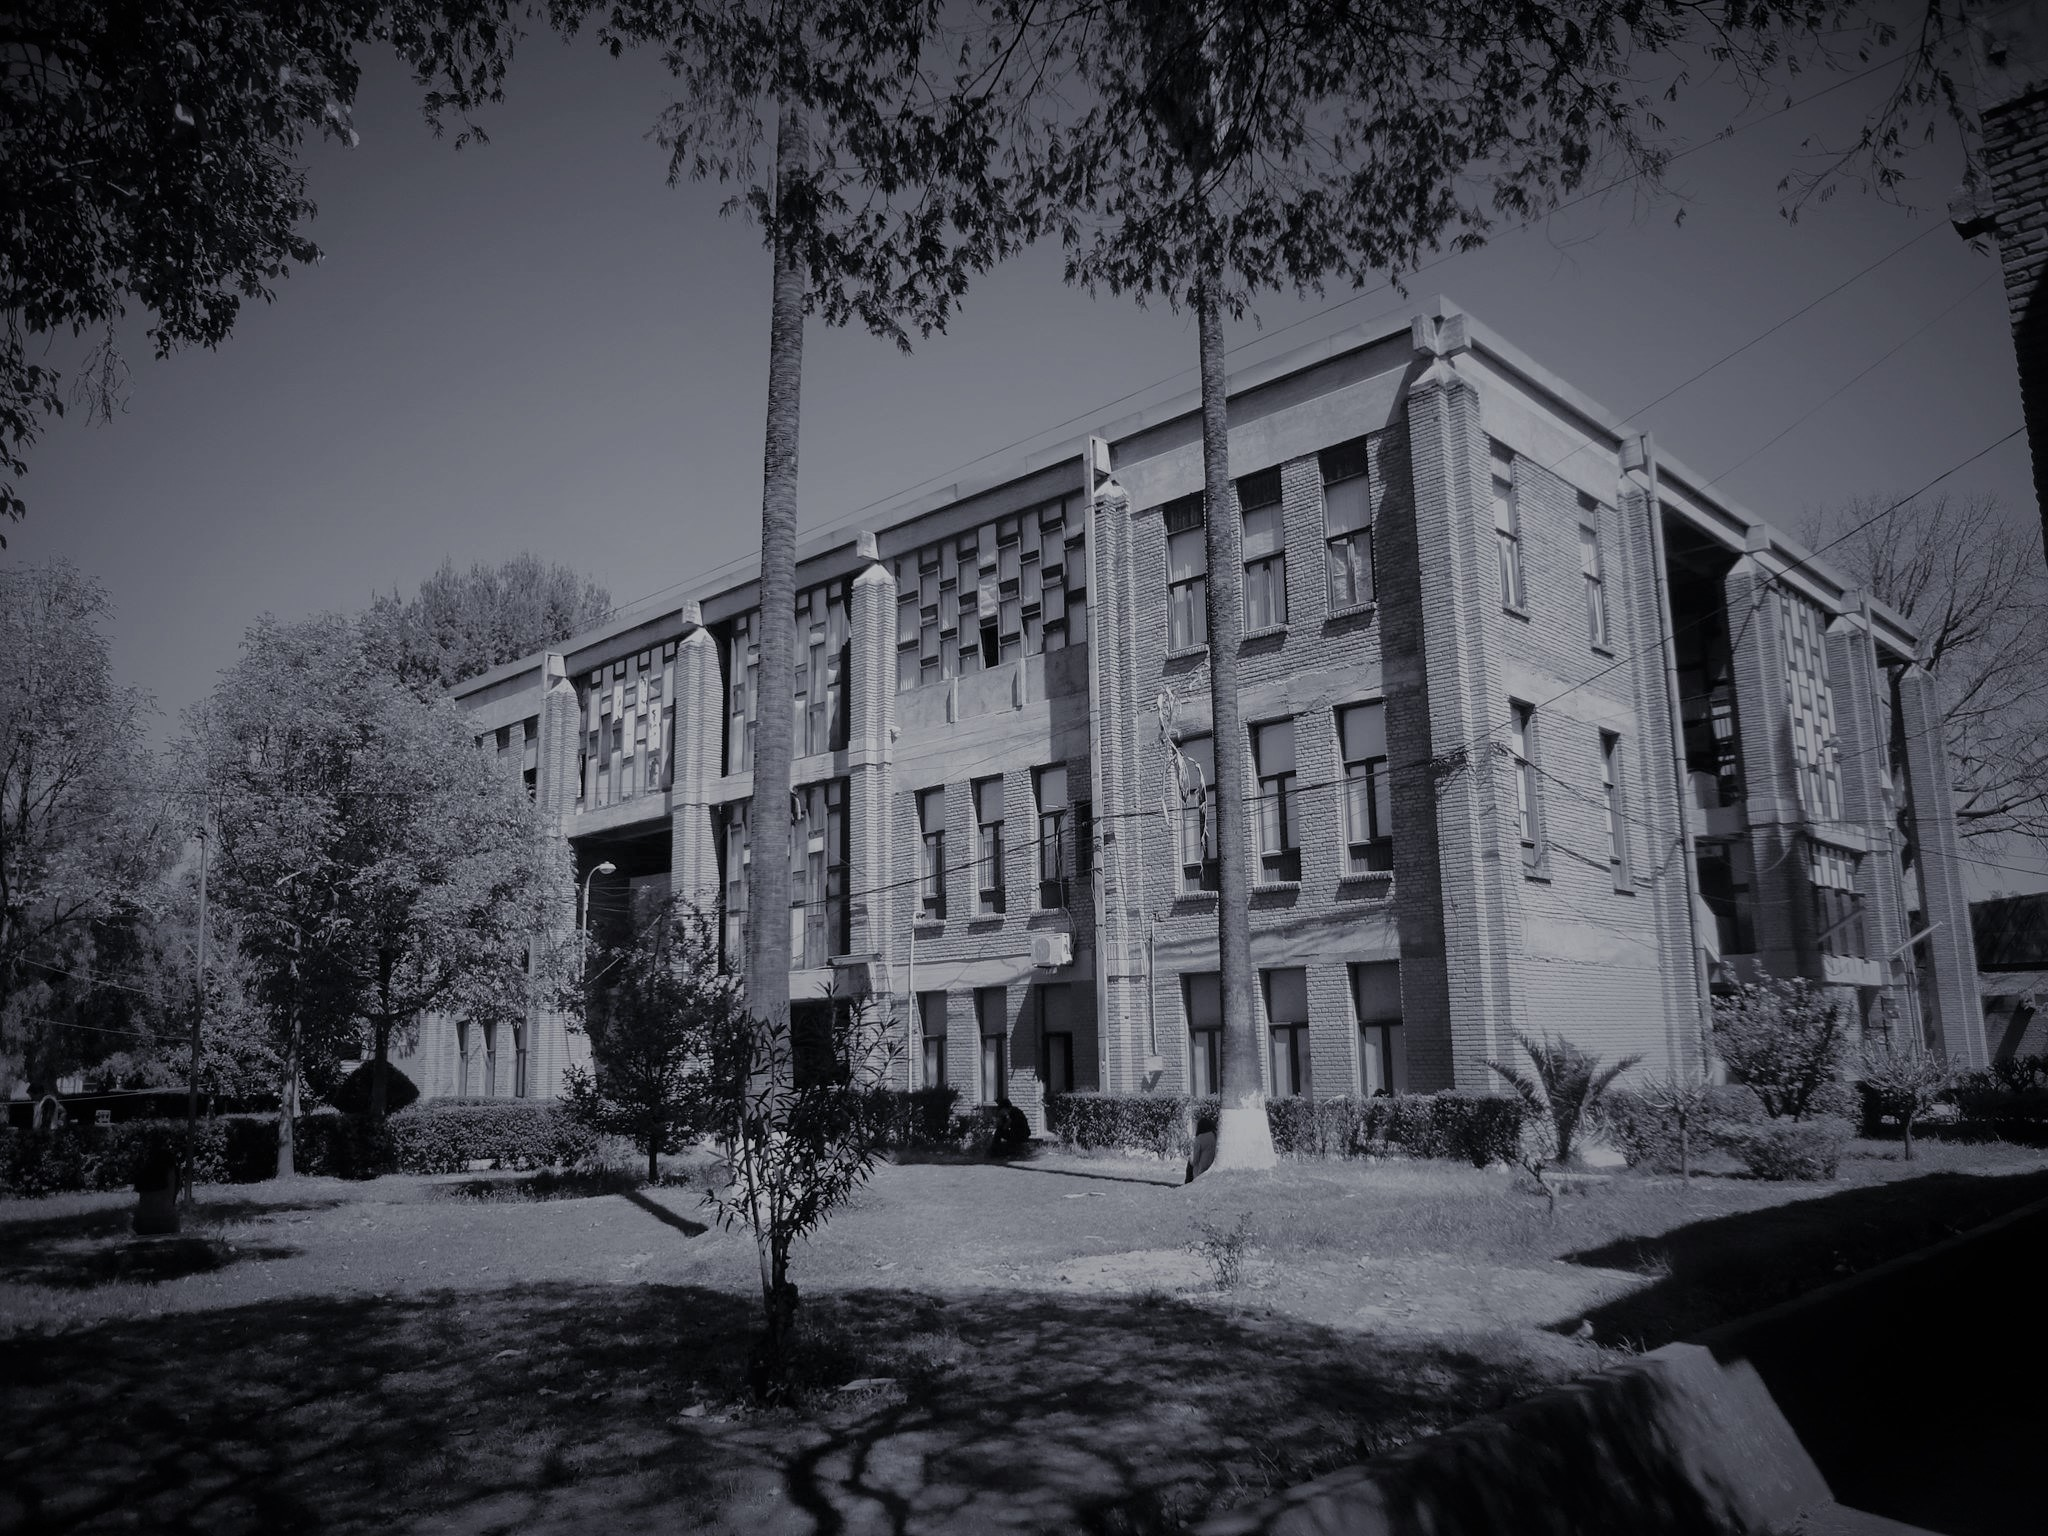
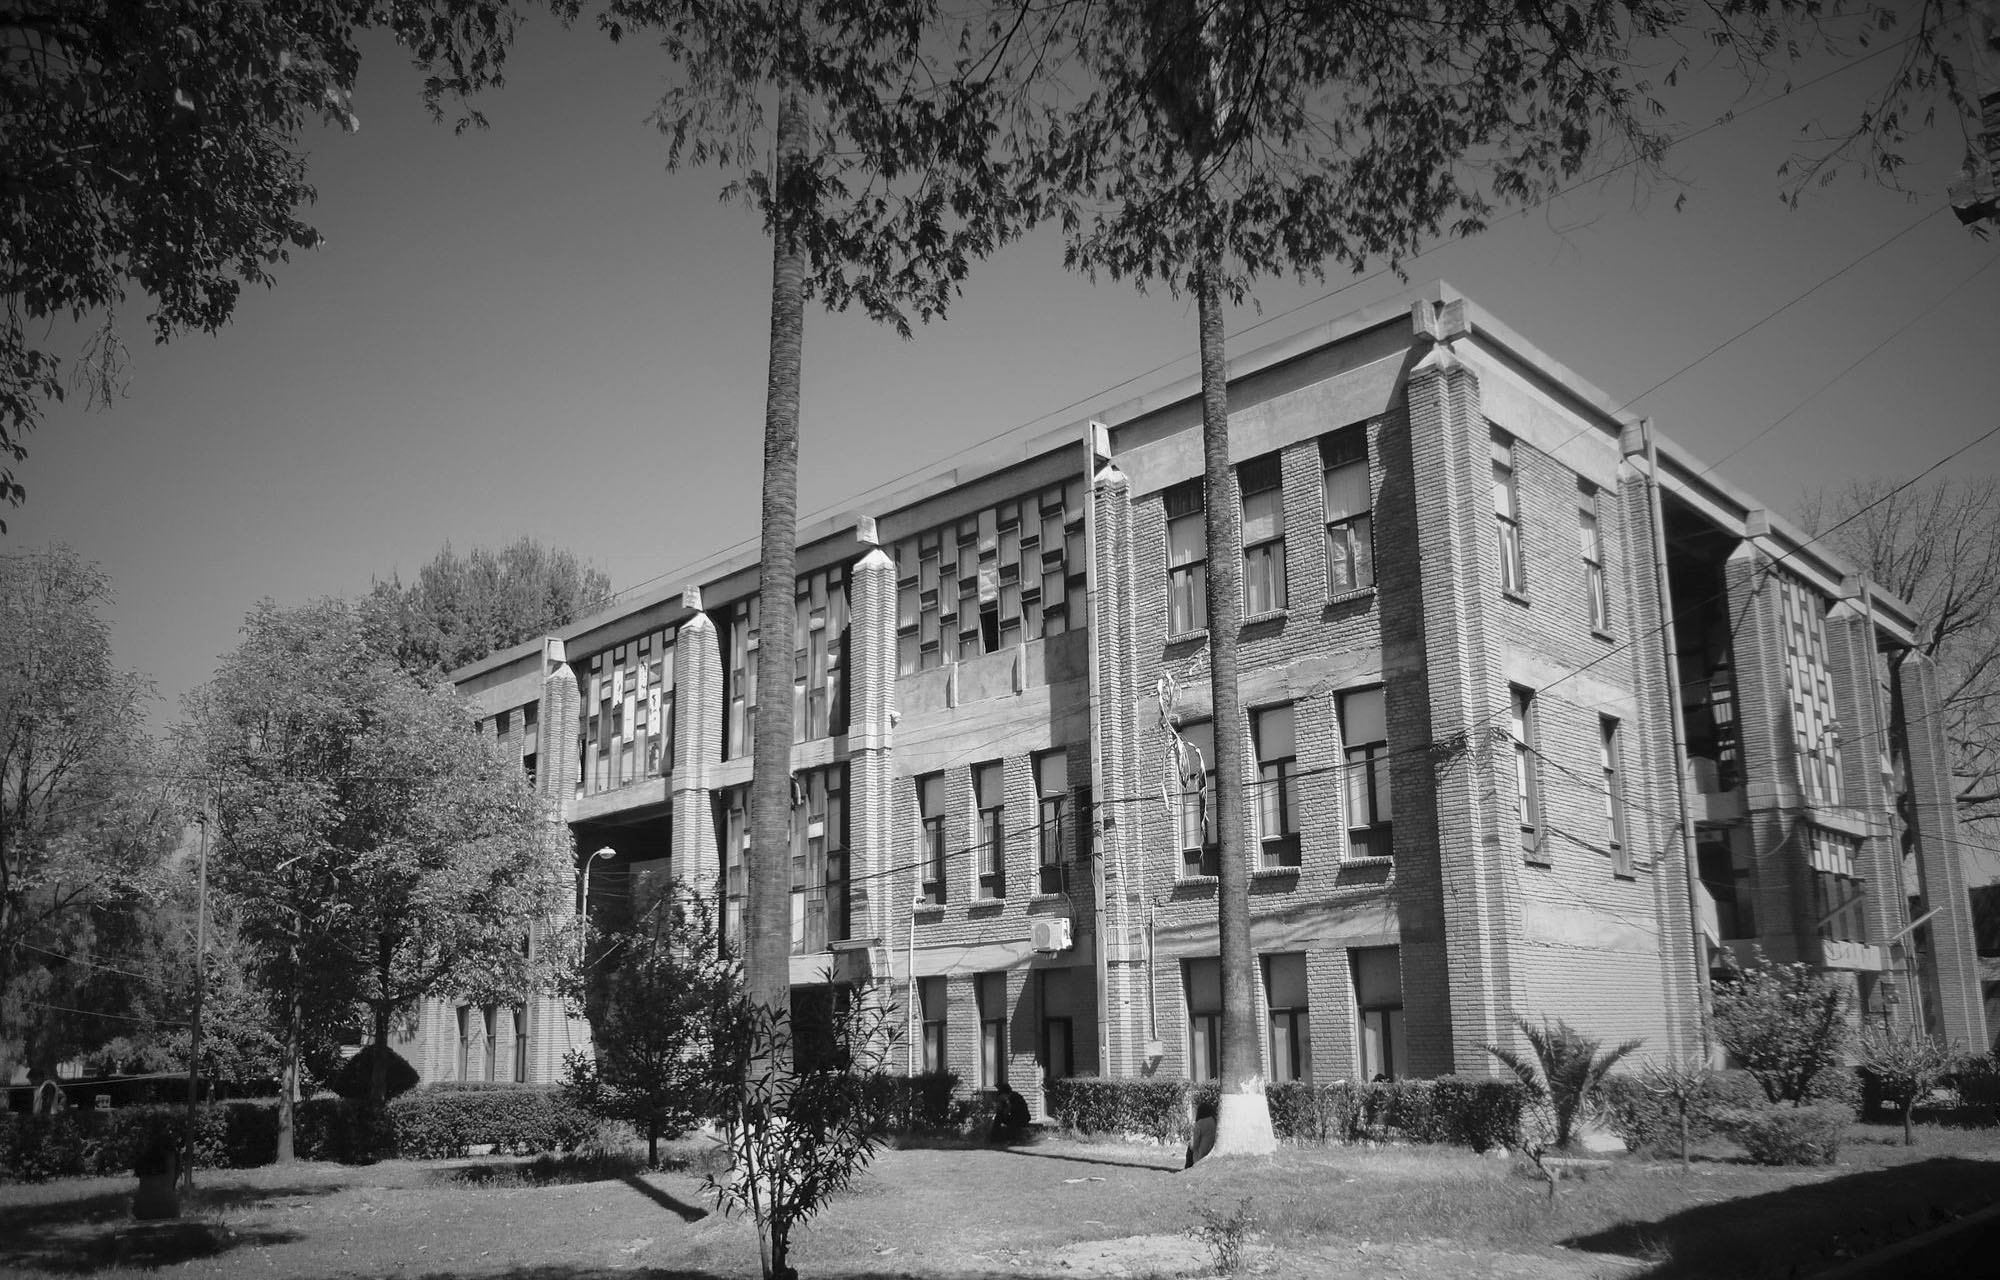
modificacion vista inicio, diseño responsive

diff --git a/resources/views/principal/inicio.blade.php b/resources/views/principal/inicio.blade.php
@@ -2,23 +2,38 @@
 
 @section('contenido')
 <div class="container-fluid">
-		<div class="row">
-			<div class="col-sm-6 col-sm-offset-1 col-md-5 col-md-offset-2">
-				<div class="text-center">
-					<h1>Bienvenido</h1>
+	<div class="row">
+		<!--<div class="col-sm-6 col-sm-offset-1 col-md-5 col-md-offset-2">-->	
+		<div class="col-md-9">
+			<div class="panel panel-default" style="padding-bottom: 30px;margin-bottom: 0px;">
+				<div class="panel-body" style="padding-top: 0px;">					
+					<div class="row">
+						<div class="col-sm-6 col-md-8">
+							<div class="text-center" style="padding-bottom: 10px;">
+								<h1>Bienvenido</h1>
+							</div>
+							<img src="{!! asset('img/background2.jpg') !!}" class="img-responsive center-block" alt="Imagen responsive" style = "max-width:94%;">	
+						</div>
+						<div class="col-sm-6 col-md-4">
+							<div class="" style="padding-top: 75px;">
+								<p>
+									El sistema de Reservas está destinado a automatizar los procesos administrativos de reserva del auditorio de la FCyT  
+								</p>
+								<p>
+									Este sistema esta destina a Docentes y usuarios autorizados para realizar la reserva del auditorio.
+								</p>
+								<p>
+									El tipo de información que se presenta es calendario, horarios y detalle de las reservas que se realicen. 
+								</p>
+							</div>
+						</div>
+					</div>						
 				</div>
-				<div class="">
-					<img src="{!! asset('img/background.jpg') !!}" class="img-responsive center-block" alt="Imagen responsive" style = "max-width:90%;">	
-				</div>
-				<div class="text-center">
-					<p>
-						El sistema de Reservas está destinado a automatizar los procesos administrativos de reserva del auditorio de la FCyT  
-					</p>
-				</div>
-			</div>
-			<div class="col-sm-4 col-sm-offset-1 col-md-3 col-md-offset-2">
-				@include('principal.perfil')
 			</div>	
 		</div>
+		<div class="col-md-3">
+			@include('principal.perfil')
+		</div>	
+	</div>
 </div>
 @endsection

diff --git a/resources/views/reservas/principal.blade.php b/resources/views/reservas/principal.blade.php
@@ -2,28 +2,24 @@
 
 @section('contenido')
 <div class="container">
-	<div class="">
-		<div class="panel panel-primary">
-			<div class="panel-heading">
-				<h4>Reservas</h4>
-			</div>
-			<div class="bs-component">
-		        <div class="panel-body">
-					<div class="col-md-4 col-md-offset-8 text-center">
-						<div class="hidden-xs btn-group btn-group-raised">
-						  <a href="{{ route('reservas.index') }}" class="btn btn-primary">Mis Reservas</a>
-						  <a href="{{ route('reservas.create') }}" class="btn btn-primary">Crear Reserva</a>
-						</div>
-						<div class="visible-xs btn-group-vertical btn-group-raised">
-						  <a href="{{ route('reservas.index') }}" class="btn btn-primary">Mis Reservas</a>
-						  <a href="{{ route('reservas.create') }}" class="btn btn-primary">Crear Reserva</a>
-						</div>
-					</div>
-					@yield('contenido-principal')
-	            </div>
-	            @yield('contenido-principal-offbody')
-        	</div>
+	<div class="panel panel-primary">
+		<div class="panel-heading">
+			<h4>Reservas</h4>
 		</div>
-    </div>
+		<div class="panel-body">
+			<div class="hidden-xs text-right col-md-12">
+				<div class="btn-group btn-group-raised">
+					<a href="{{ route('reservas.index') }}" class="btn btn-primary">Mis Reservas</a>
+					<a href="{{ route('reservas.create') }}" class="btn btn-primary">Crear Reserva</a>
+				</div>						
+			</div>
+			<div class="visible-xs btn-group-vertical btn-group-raised">
+				<a href="{{ route('reservas.index') }}" class="btn btn-primary">Mis Reservas</a>
+				<a href="{{ route('reservas.create') }}" class="btn btn-primary">Crear Reserva</a>
+			</div>
+			@yield('contenido-principal')
+		</div>
+		@yield('contenido-principal-offbody')
+	</div>
 </div>
 @endsection

diff --git a/resources/views/principal/perfil.blade.php b/resources/views/principal/perfil.blade.php
@@ -37,7 +37,7 @@
 			</div>
 		</div>	
 		<div class="panel-footer text-center">
-			<a href="{{ route('usuarios.edit', ['id' => $usuario->id_usuario]) }}" class="btn btn-raised btn-primary">
+			<a href="{{ route('usuarios.edit', ['id' => $usuario->id_usuario]) }}" class="btn btn-raised btn-primary btn-sm">
 				<i class="material-icons">autorenew</i>Editar
 			</a>
 		</div>
